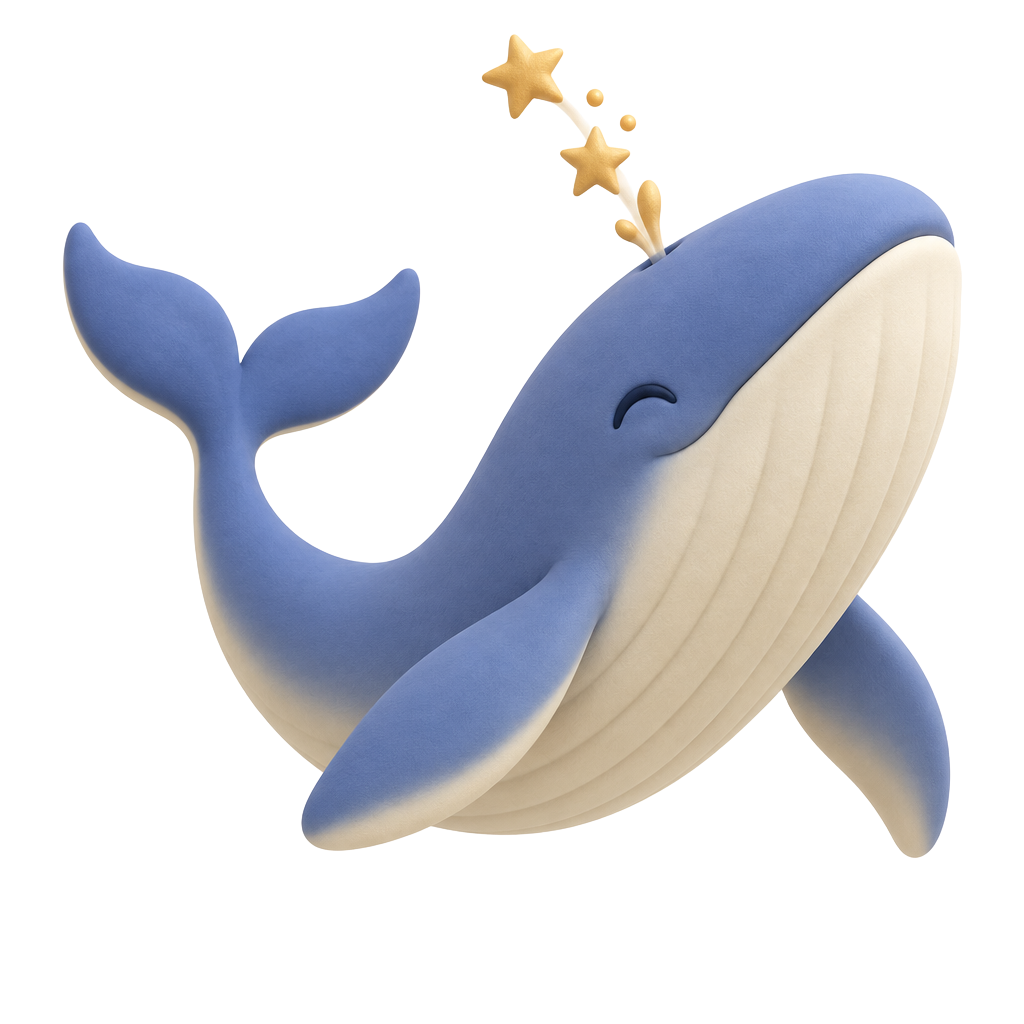
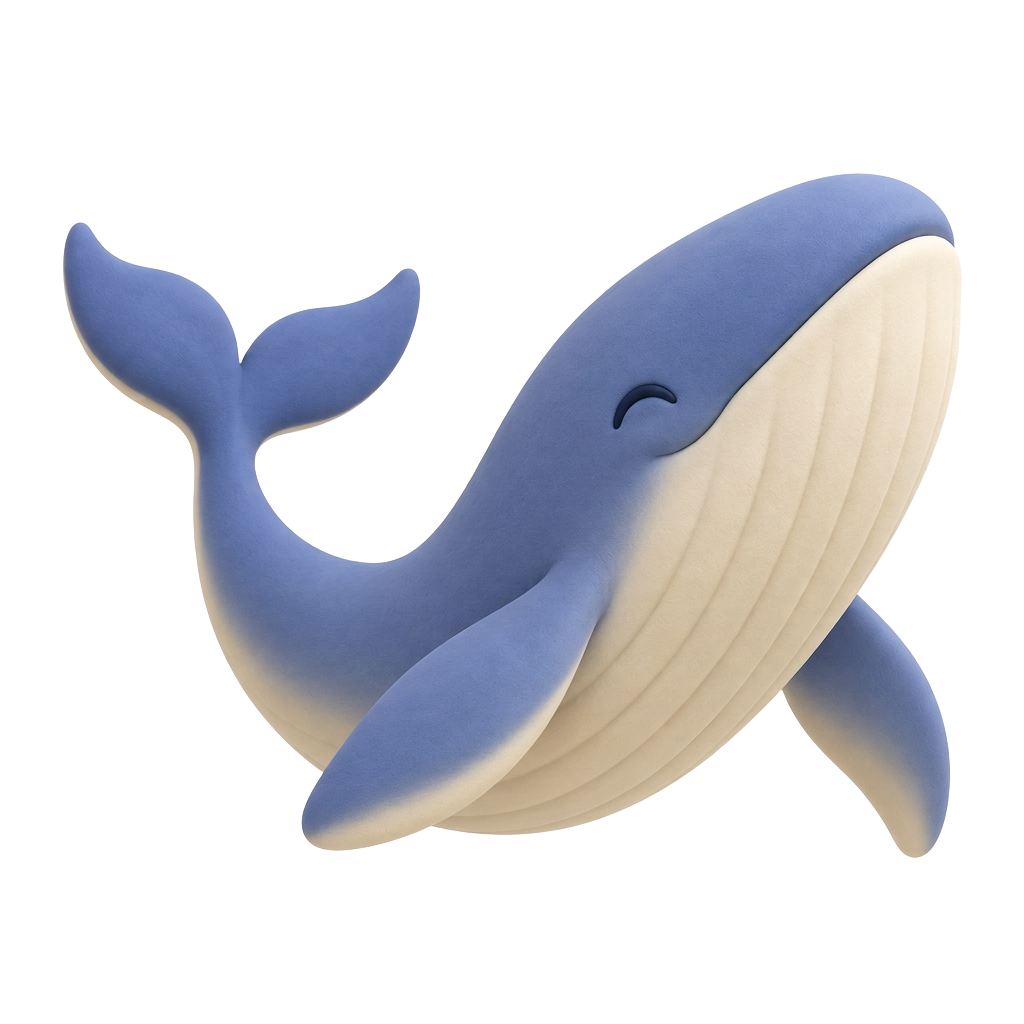
Changes

Changed region(s): [[0.4688, 0.0312, 0.6562, 0.2812]]

diff --git a/roadmap.md b/roadmap.md
@@ -95,3 +95,5 @@
 - [ ] Make Daily Discovery interactive (narration, tap-to-reveal, predictions)
 - [ ] Restore Ollie 1 soft styling on remaining setup screens (reading, preview, safety, welcome)
 - [ ] Remove screen-time "boundaries" screen or rebuild it
+
+- [ ] Whale: no blowhole spray; cartoon thought/dream bubbles float above his head
